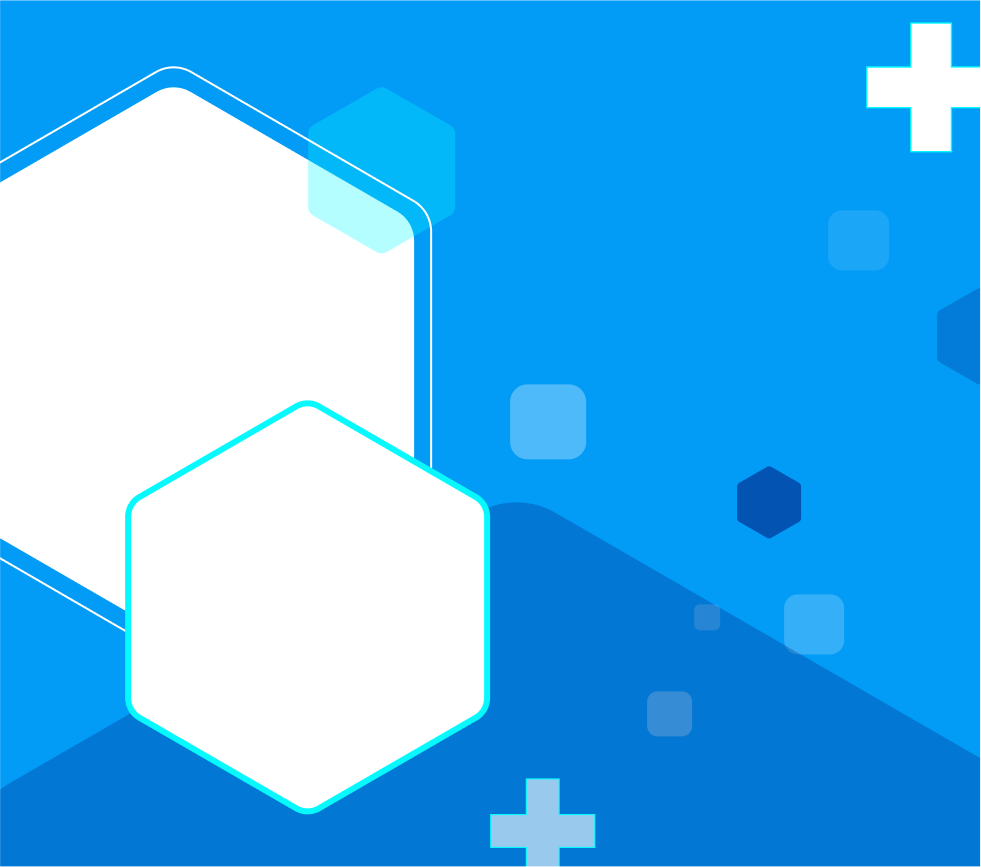
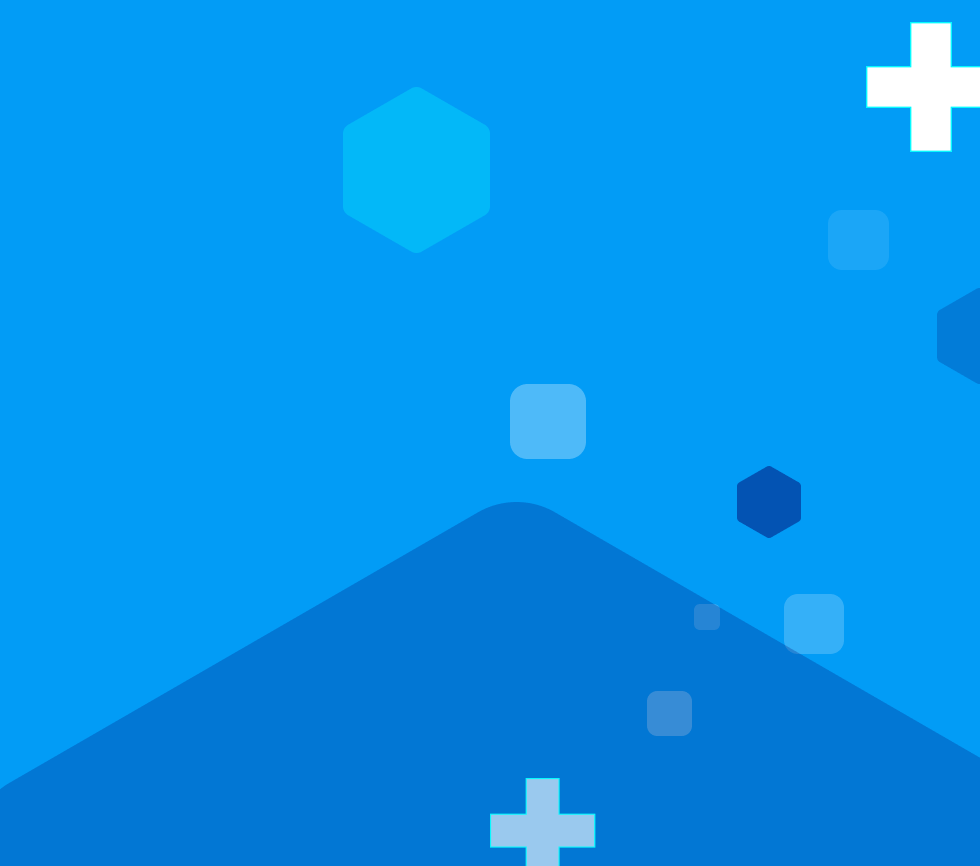
day 37

diff --git a/vc_corp.html b/vc_corp.html
@@ -5,23 +5,72 @@
     <meta name="viewport" content="width=device-width, initial-scale=1.0">
     <title>Doctor Profile</title>
     <script src="https://cdn.tailwindcss.com"></script>
+    <style>
+        /* Lớp chứa hình lục giác và viền */
+        .hexagon-container {
+            position: relative;
+            width: 200px;
+            height: 230px;
+        }
+
+        /* Viền trắng bằng pseudo-element */
+        .hexagon-container::before {
+            content: '';
+            position: absolute;
+            top: 0;
+            left: 0;
+            width: 100%;
+            height: 100%;
+            background-color: white; /* Màu viền trắng */
+            clip-path: polygon(50% 0%, 100% 25%, 100% 75%, 50% 100%, 0% 75%, 0% 25%);
+            z-index: 1; /* Hiển thị dưới ảnh */
+        }
+        
+        .hexagon {
+            position: relative;
+            display: inline-block;
+            width: 100%;
+            height: 100%;
+            background: white;
+            clip-path: polygon(50% 0%, 100% 25%, 100% 75%, 50% 100%, 0% 75%, 0% 25%);
+            z-index: 2;
+        }
+
+        .hexagon::before,
+        .hexagon::after {
+            content: "";
+            position: absolute;
+            width: 0;
+            border-left: 100px solid transparent; /* Phân nửa chiều rộng */
+            border-right: 100px solid transparent;
+        }
+
+        .hexagon::before {
+            top: -57.74px; /* Di chuyển lên trên */
+            border-bottom: 57.74px solid #fff; /* Màu nền (trắng) hoặc hình ảnh */
+        }
+
+        .hexagon::after {
+            bottom: -57.74px; /* Di chuyển xuống dưới */
+            border-top: 57.74px solid #fff; /* Màu nền (trắng) hoặc hình ảnh */
+        }
+    </style>
 </head>
-<body class="bg-[#029CF6] flex justify-center items-center h-screen">
+<body  class="flex flex items-center justify-center h-screen bg-cover bg-center bg-no-repeat" style="background-image: url('Background.png');">
     <!-- Container -->
-    <div class="relative bg-[#029CF6] max-w-screen-lg mx-auto p-5">
+    <div class="relative max-w-screen-lg mx-auto p-5">
         <!-- Top Section -->
-        <div class="flex flex-col md:flex-row items-center justify-center gap-6">
+        <div class="flex flex-col md:flex-row items-center justify-center gap-12">
             <!-- Image Container -->
-            <div class="relative">
-                <img src="bs2.png" alt="Doctor" class="rounded-lg shadow-md border-4 border-white w-64 h-64 object-cover">
-                <!-- Overlapping Image -->
-                <div class="absolute -bottom-10 -right-10 bg-white rounded-lg shadow-md p-1 w-32 h-32">
-                    <img src="bs1.png" alt="Stethoscope" class="rounded-lg object-cover">
+            <div class="relative" >
+                <div class="hexagon-container">
+                    <!-- <img src="bs2.png" alt="Doctor" class="hexagon rounded-lg shadow-md border-4 border-white w-64 h-64 object-cover"> -->
                 </div>
+                <img src="bs1.png" alt="Doctor2" class="hexagon absolute -bottom-10 -right-10 bg-white rounded-lg shadow-md border-4 border-white w-32 h-32 object-cover">
             </div>
             <!-- Quote Section -->
-            <div class="text-white max-w-md">
-                <p class="text-lg leading-relaxed">
+            <div class="text-white max-w-md ">
+                <p class="text-lg leading-relaxed w-64 h-64">
                     Tôi không nghĩ mình đang khác đi, bởi tôi là một người sống khá đơn giản. Tôi biết những người yêu mến tôi là vì sự chân thật và giản dị.
                 </p>
                 <div class="mt-4">
@@ -31,4 +80,5 @@
             </div>
         </div>
         <!-- Plus Icon Background -->
-    <div class="absolute top-0 right
+    </div>
+</body>

diff --git a/day37.js b/day37.js
@@ -1,0 +1,32 @@
+/**
+ * @param {number[]} nums
+ * @param {number} k
+ * @return {void} Do not return anything, modify nums in-place instead.
+ */
+var rotate = function(arr, d) {
+    let n = arr.length;
+
+    // Handle case when d > n
+    d %= n;
+  
+    // Storing rotated version of array
+    let temp = new Array(n);
+
+    // Copy last d elements to the front of temp
+    for (let i = 0; i < d; i++) {
+        temp[i] = arr[n - d + i];
+    }
+
+    // Copy the first n - d elements to the back of temp
+    for (let i = 0; i < n - d; i++) {
+        temp[i + d] = arr[i];
+    }
+
+    // Copying the elements of temp in arr
+    // to get the final rotated array
+    for (let i = 0; i < n; i++) {
+        arr[i] = temp[i];
+    }
+};
+
+//https://leetcode.com/problems/rotate-array/?envType=study-plan-v2&envId=top-interview-150

diff --git a/doctor.css b/doctor.css
@@ -1,0 +1,8 @@
+/* Y tế/ Quote/07 */
+
+position: absolute;
+width: 980px;
+height: 866px;
+left: 0.12px;
+top: 0.35px;
+
